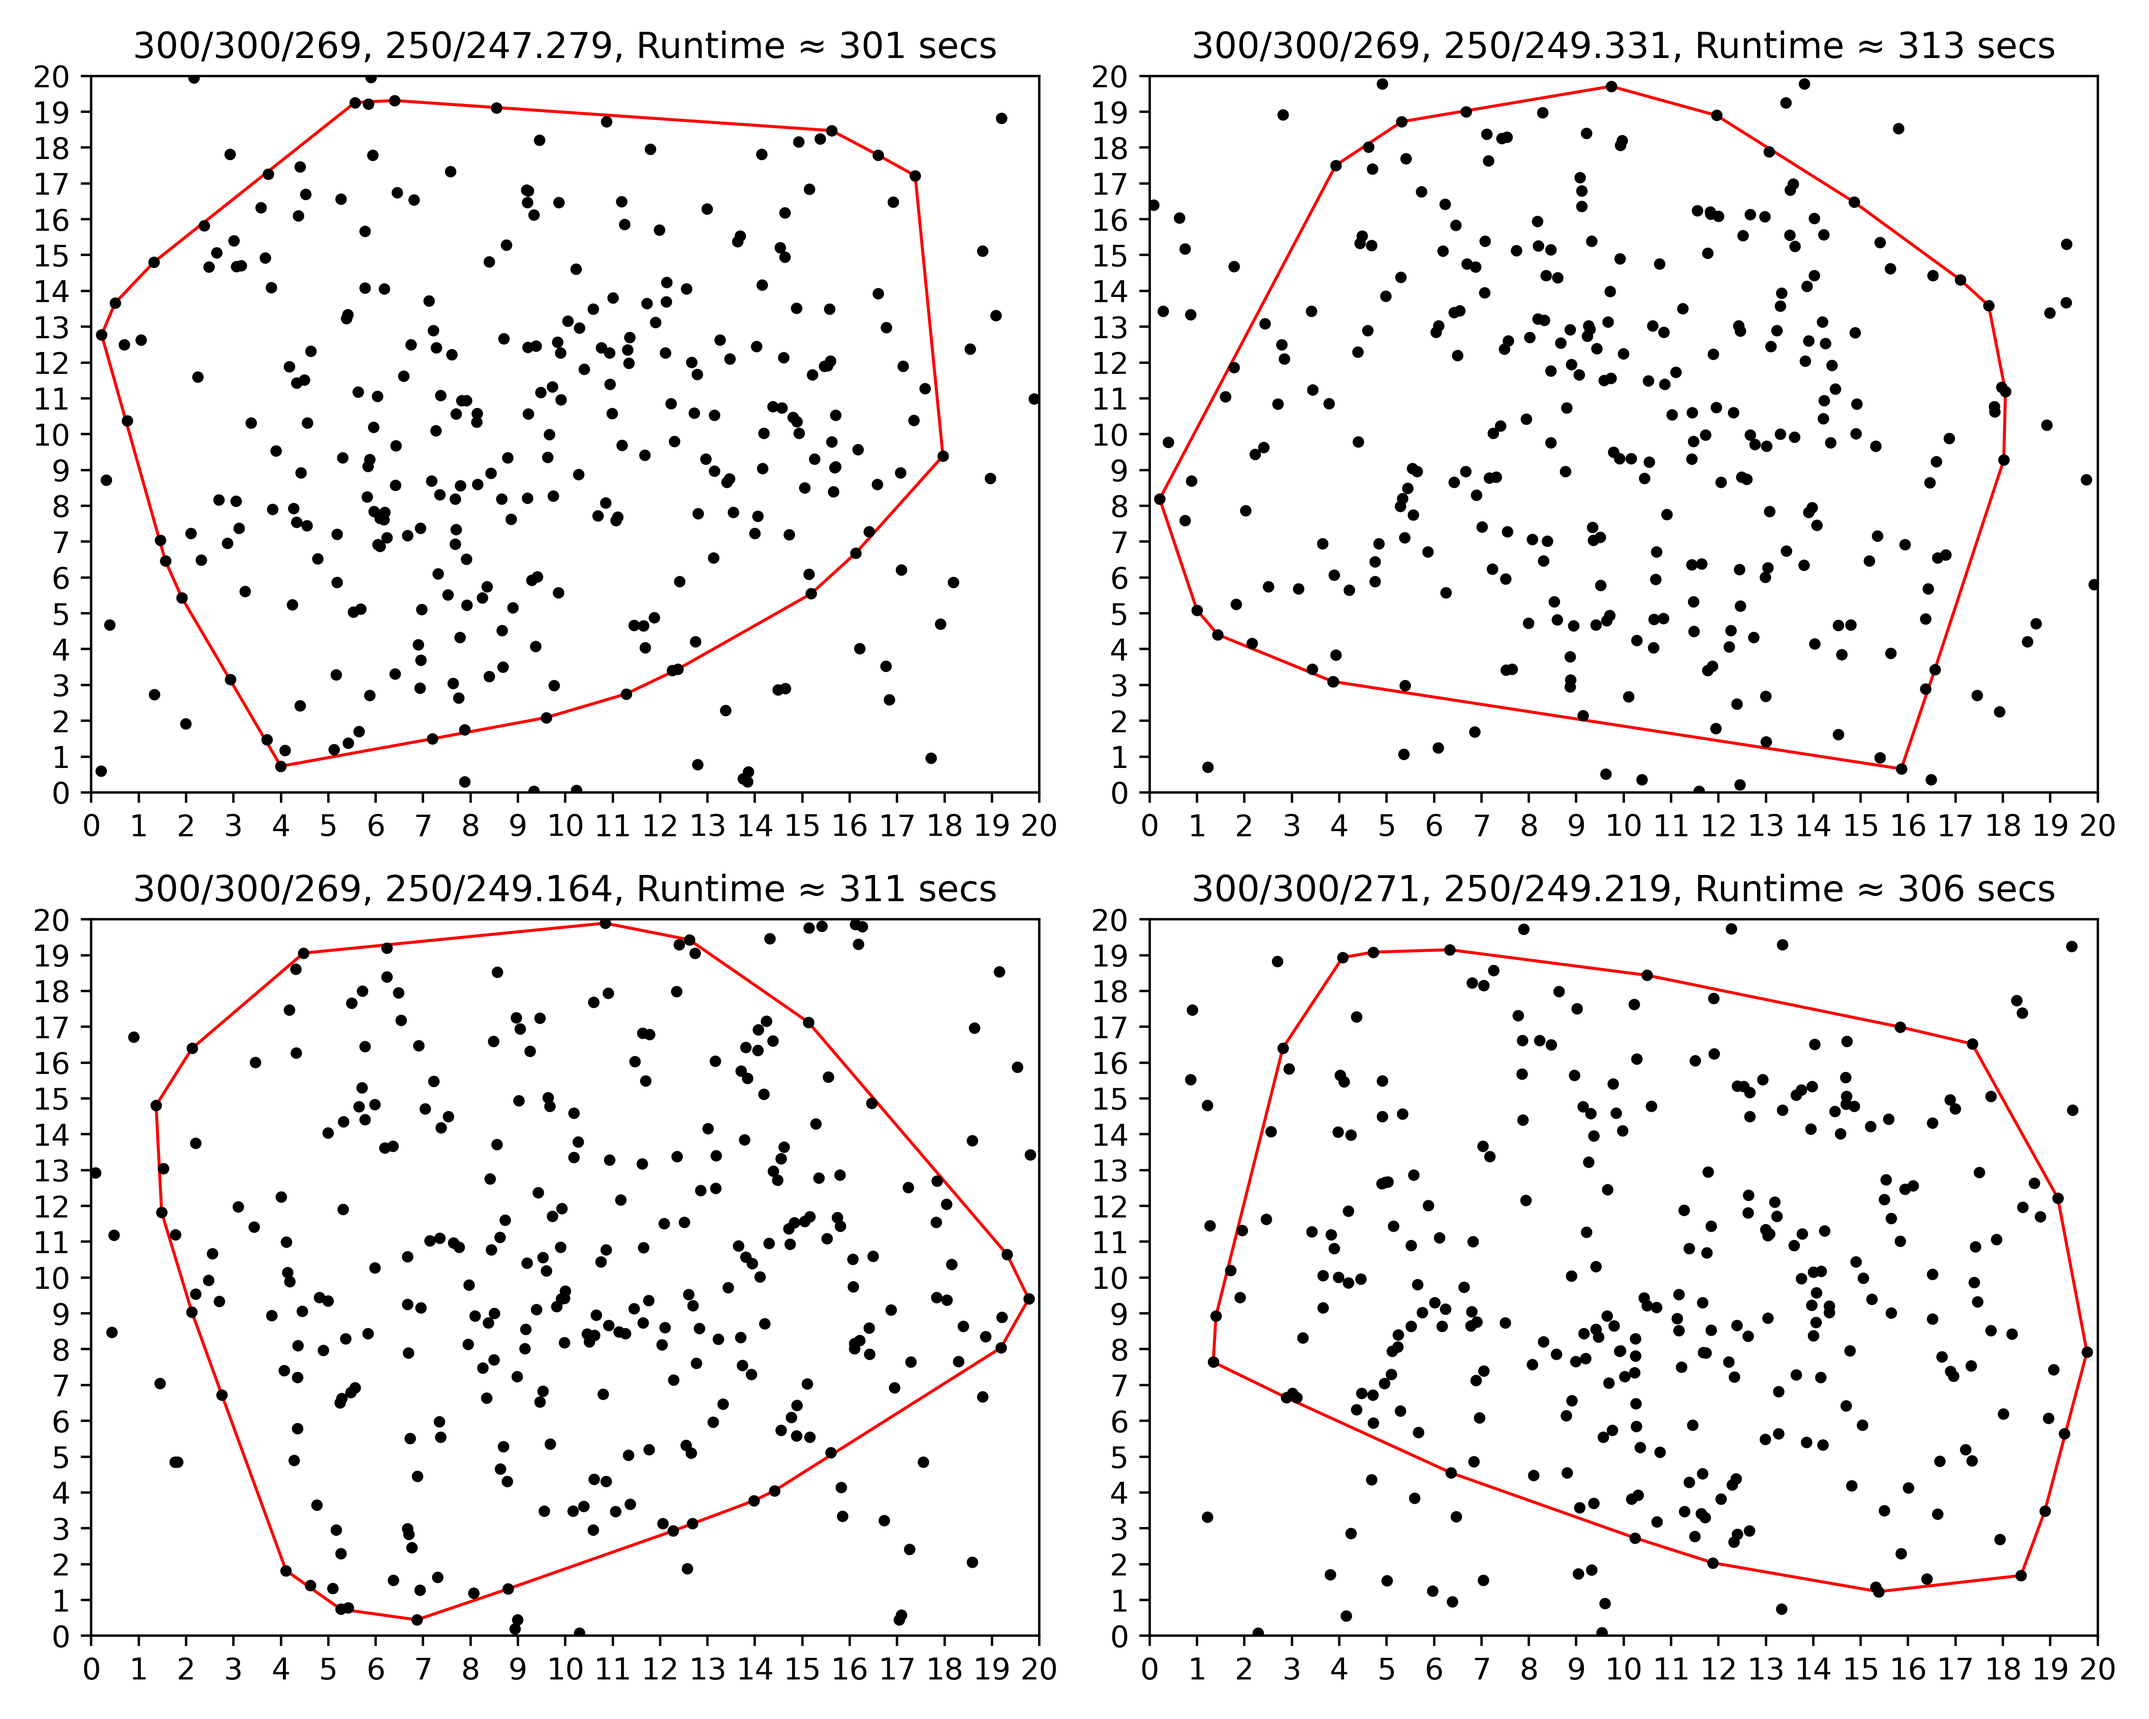
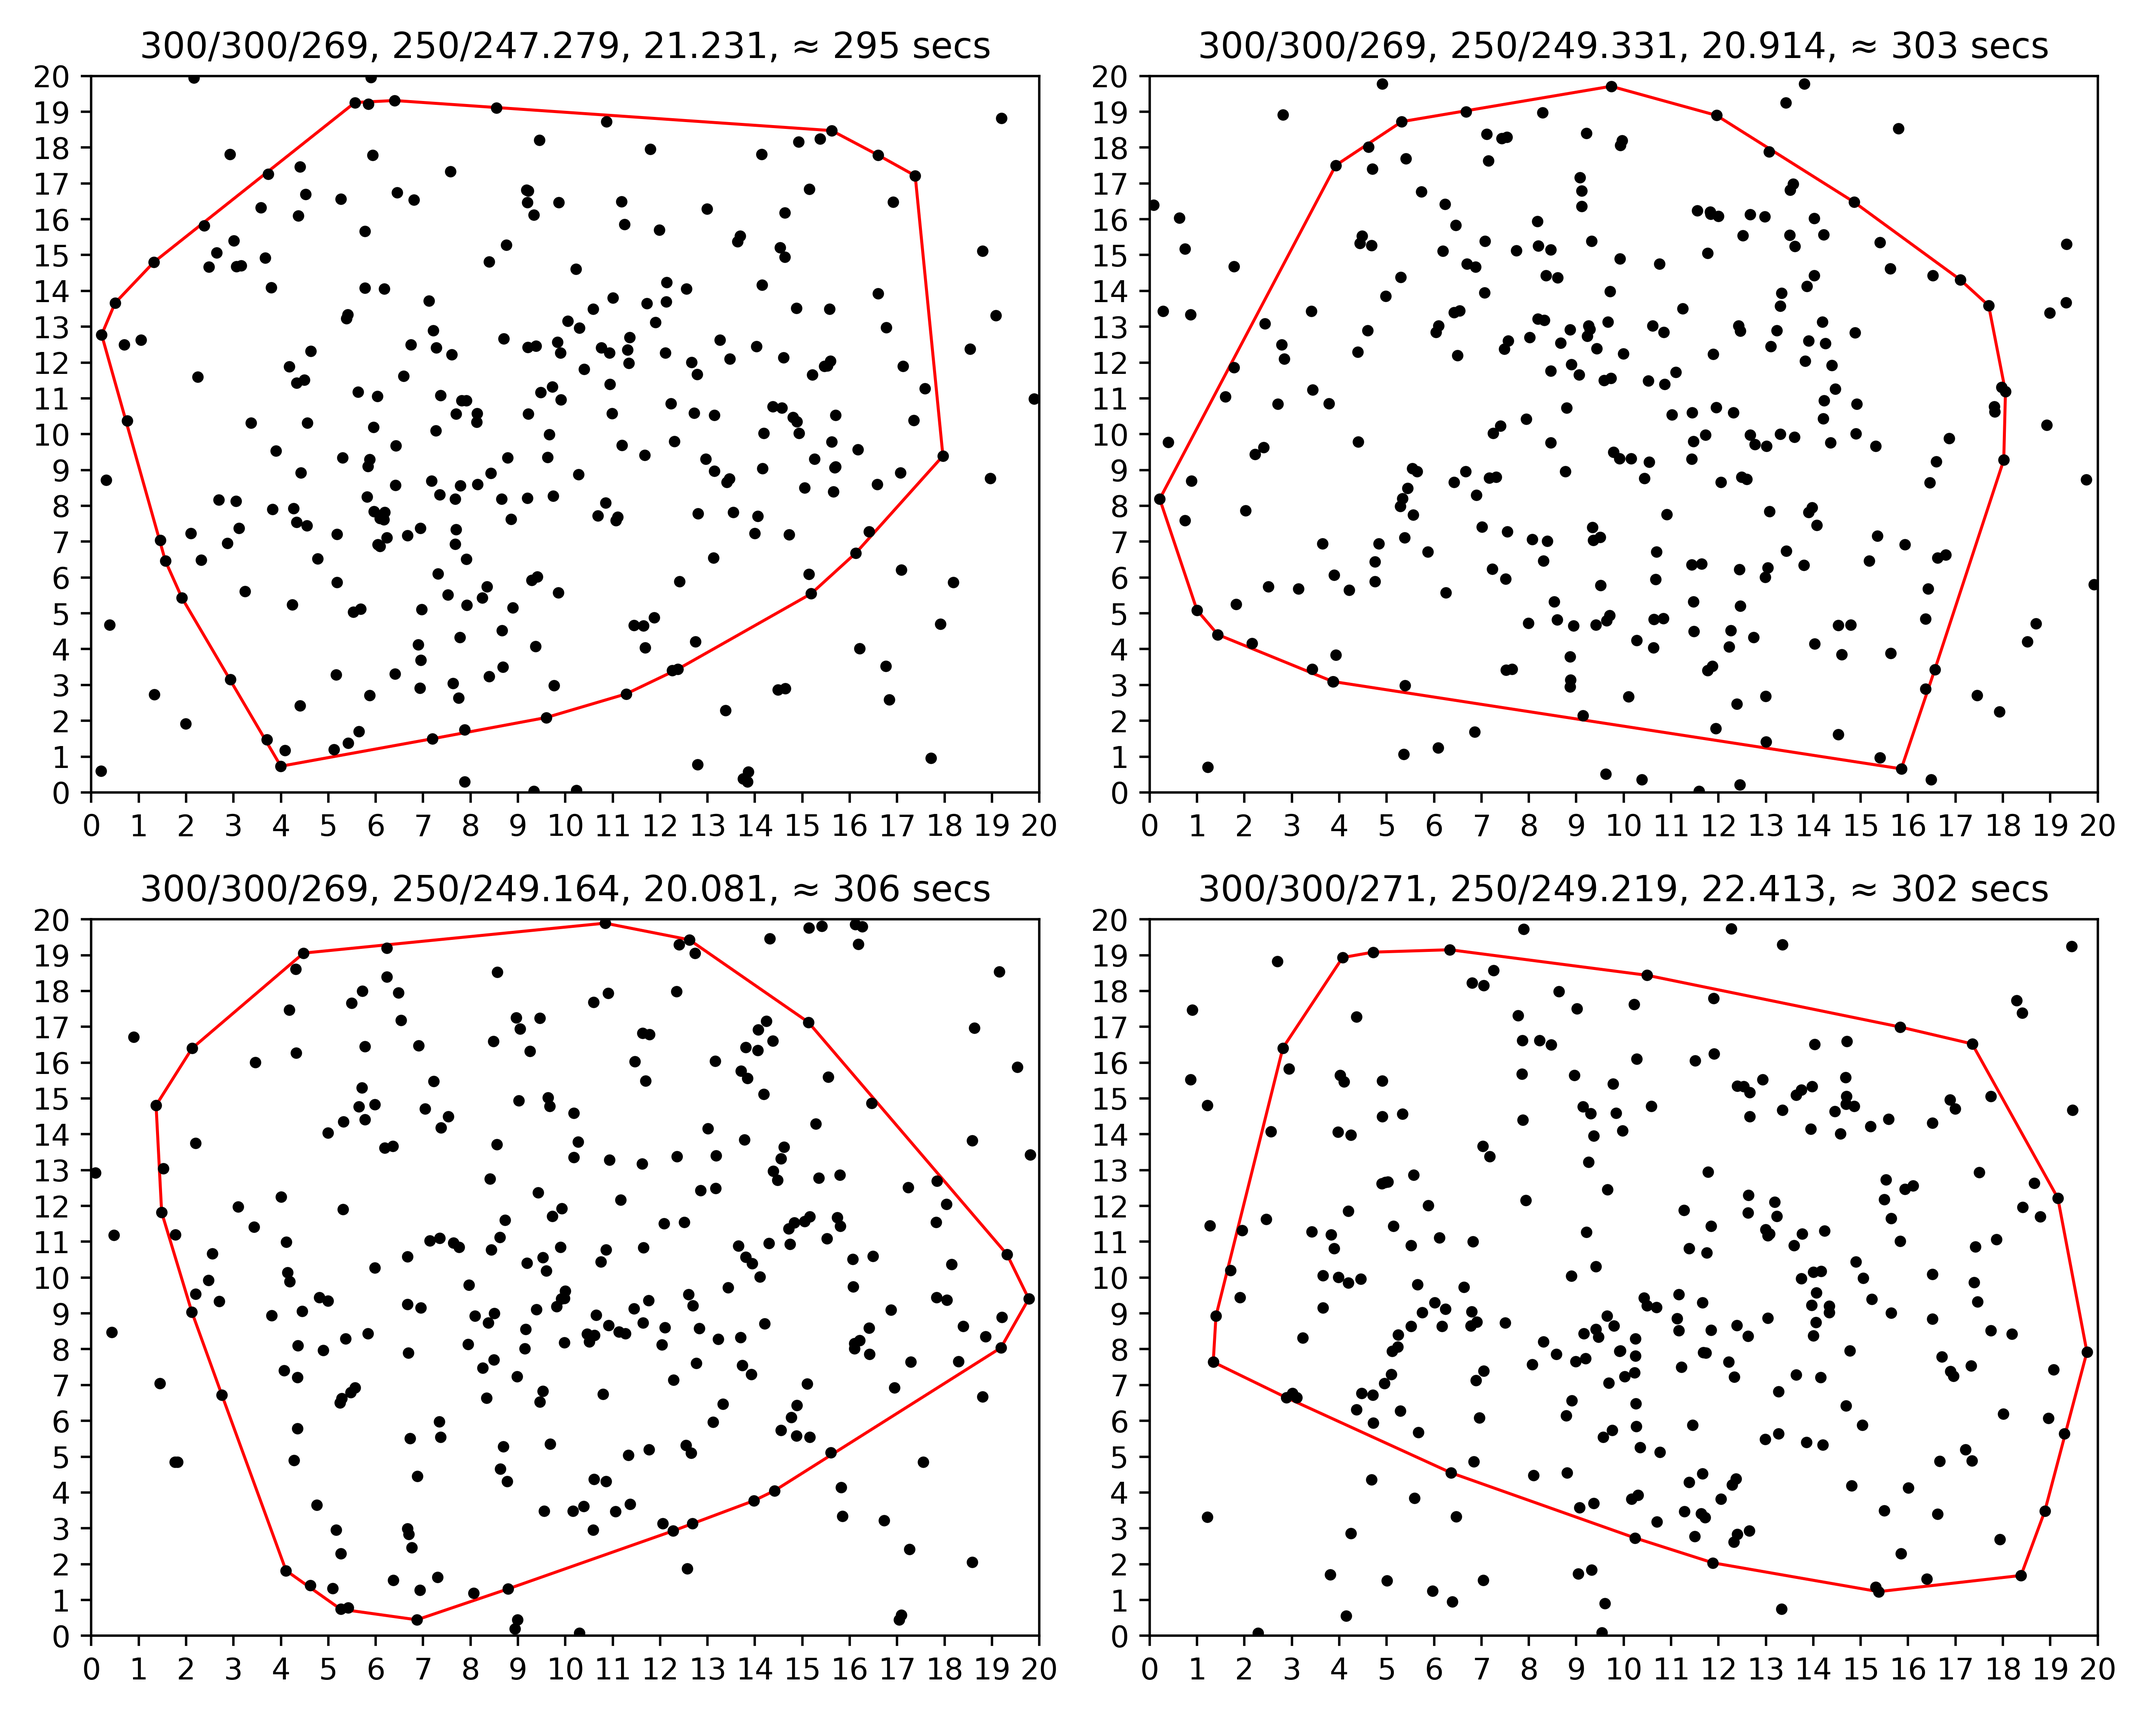
added diameter computation function and new visualizations

diff --git a/src/main/main.cpp b/src/main/main.cpp
@@ -2,6 +2,7 @@
 
 #include "../common/Eppstein.h"
 #include "../common/Parser.h"
+#include "../common/Utils.h"
 
 #include <cassert>
 #include <iostream>
@@ -61,7 +62,7 @@ int main(void)
             for(size_t i = 0; i < filesCount / 2; ++i)
             {
                 const auto sampleFilename = std::string("data_") + std::to_string(i) + ".txt";
-                const auto resultsFilename =std::string("results_") + std::to_string(i) + ".txt";
+                const auto resultsFilename = std::string("results_") + std::to_string(i) + ".txt";
                 std::vector<CM::Point2> points;
                 std::vector<long double> solutionsPY;
                 SZ::ReadPointsFromFile(entry.path() / fs::path{sampleFilename}, points);
@@ -70,7 +71,7 @@ int main(void)
                 constexpr auto shouldReconstructHull = true;
 
                 auto t1 = high_resolution_clock::now();
-                const auto res = MT::EppsteinAlgorithm(points, 80, maxAllowedArea, shouldReconstructHull);
+                const auto res = MT::EppsteinAlgorithm(points, points.size(), maxAllowedArea, shouldReconstructHull);
                 auto t2 = high_resolution_clock::now();
 
                 auto maxSolutionsDistance = 0.l;
@@ -86,9 +87,15 @@ int main(void)
                     }
                 }
 */
-                for(const auto idx : res.myHullIndices) std::cout << idx << ", ";
+                std::vector<CM::Point2> hull;
+                for(const auto idx : res.myHullIndices)
+                {
+                    std::cout << idx << ", ";
+                    hull.emplace_back(points[idx]);
+                }
+
                 std::cout << std::endl;
-                std::cout << "area=" << res.myHullArea << ", count=" << res.myPointsCount << std::endl;
+                std::cout << "area=" << res.myHullArea << ", count=" << res.myPointsCount << ", diam=" << ComputeDiameter(hull) << std::endl;
 
                 std::cout   << std::fixed << std::setprecision(8) << "File " << (1+i) << "/" << (filesCount / 2) << " done in " << duration_cast<seconds>(t2 - t1).count() << " seconds. Collinear points="
                             << (areThereCollinearPoints ? "yes" : "no") << ". Max distance=" << std::to_string(maxSolutionsDistance) << std::endl;

diff --git a/src/common/Utils.cpp b/src/common/Utils.cpp
@@ -225,4 +225,25 @@ namespace MT
         std::sort(someOutClockWiseSortedPoints.begin(), someOutClockWiseSortedPoints.end(),
                   std::bind(ArePointsClockwise, aReferencePoint, _1, _2));
     }
+
+    long double ComputeDiameter(const std::vector<CM::Point2>& somePoints)
+    {
+        auto result = 0.l;
+        for (const auto& point : somePoints)
+        {
+            for (const auto& anotherPoint : somePoints)
+            {
+                if(point.index != anotherPoint.index)
+                {
+                    const auto distance2 = CM::SquaredDistance(point, anotherPoint);
+                    if(distance2 > result)
+                    {
+                        result = distance2;
+                    }
+                }
+            }
+        }
+        return std::sqrtl(result);
+    }
+
 }

diff --git a/src/common/Utils.h b/src/common/Utils.h
@@ -25,6 +25,8 @@ namespace MT
     bool ArePointsClockwise(const CM::Point2& aReferencePoint, const CM::Point2& aFirstPoint, const CM::Point2& aSecondPoint);
 
     void SortPointsClockWiseAroundPoint(const CM::Point2& aReferencePoint, std::vector<CM::Point2>& someOutClockWiseSortedPoints);
+
+    long double ComputeDiameter(const std::vector<CM::Point2>& somePoints);
 }
 
 
